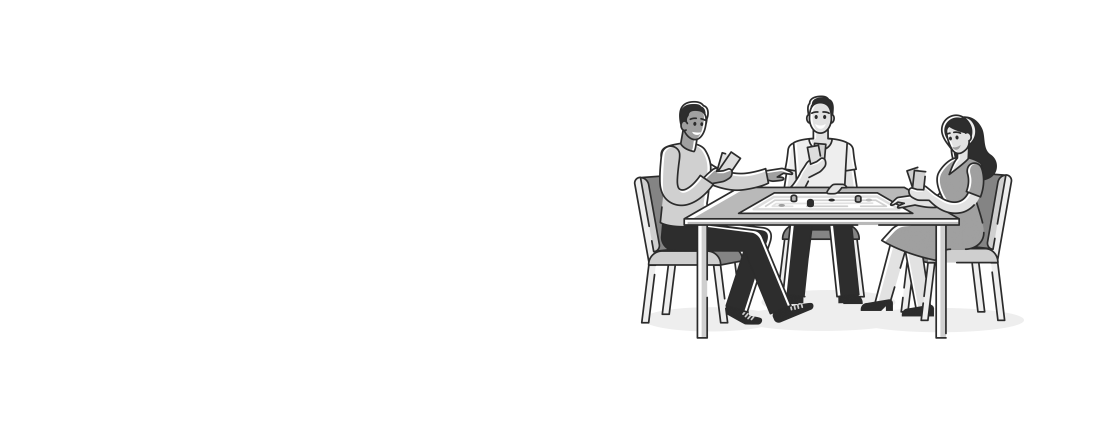
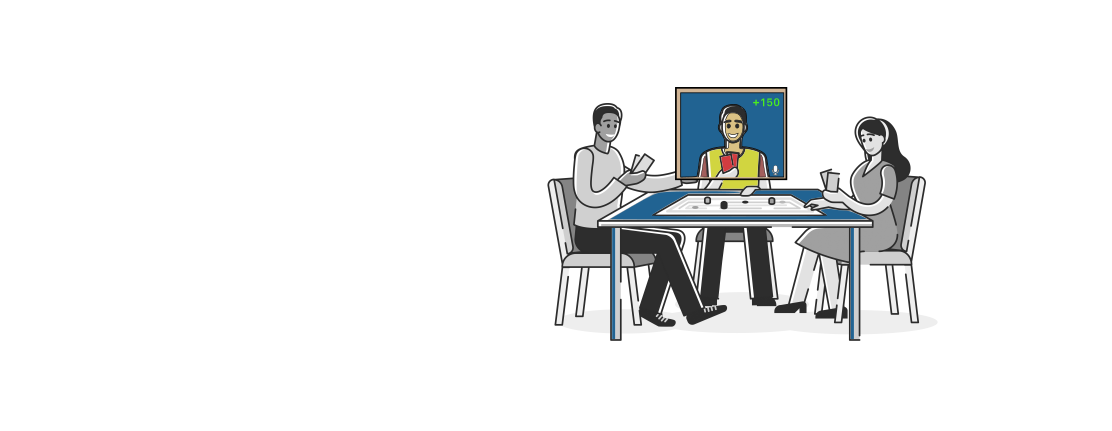
Changes to bg img etc, just css

Changed region(s): [[0.4892, 0.181, 0.9173, 0.7842]]

diff --git a/src/components/RTCPlayerControls.tsx b/src/components/RTCPlayerControls.tsx
@@ -15,15 +15,22 @@ const useStyles = makeStyles((theme: Theme) =>
       paddingTop: theme.spacing(1),
       paddingBottom: theme.spacing(1),
       width: '100%',
+      backgroundColor: 'Black',
     },
     btnContainer: {
       margin: theme.spacing(1),
+      backgroundColor: 'primary',
     },
     timer: {
       padding: theme.spacing(2),
       margin: theme.spacing(1),
       minWidth: 60,
       textAlign: 'center',
+      backgroundColor: 'rgba(179,49,49)',
+      color: 'white',
+    },
+    answerField: {
+      backgroundColor: 'white',
     },
   })
 );
@@ -84,13 +91,13 @@ const RTCPlayerControls: React.FC = () => {
   const disabled = isDisabled();
 
   return (
-    <Paper elevation={3} className={classes.container}>
+    <Paper elevation={3} className={classes.container} square>
       <Paper className={classes.timer}>
         <Typography>{timer}</Typography>
       </Paper>
-      <div>
+      <div className={classes.answerField}>
         <TextField
-          variant="outlined"
+          variant="filled"
           label="Vastaus"
           value={answer}
           onChange={({ target }) => setAnswer(target.value)}

diff --git a/src/components/HostOverlayItems.tsx b/src/components/HostOverlayItems.tsx
@@ -86,7 +86,7 @@ const HostOverlayItems: React.FC<HostOverlayItemsProps> = ({ host }) => {
         <div className={classes.spacer} />
         <div className={classes.flex}>
           <Paper className={classes.badge}>
-            <Typography>{host.displayName}</Typography>
+            <Typography variant="h5">{host.displayName}</Typography>
           </Paper>
           <div className={classes.spacer} />
           <IconButton size="small" onClick={toggleMuted}>

diff --git a/src/components/PlayerOverlayItems.tsx b/src/components/PlayerOverlayItems.tsx
@@ -244,7 +244,7 @@ const PlayerOverlayItems: React.FC<PlayerOverlayItemsProps> = ({ peer }) => {
         <div className={classes.spacer} />
         <div className={classes.flex}>
           <Paper className={classes.nameBadge}>
-            <Typography>{player.name}</Typography>
+            <Typography variant="h5">{player.name}</Typography>
           </Paper>
           <div className={classes.spacer} />
           {forHost && answer && (

diff --git a/src/components/RTCVideoFrame.tsx b/src/components/RTCVideoFrame.tsx
@@ -25,12 +25,12 @@ const useStyles = makeStyles((theme: Theme) =>
     },
     frame: {
       paddingTop: '75%',
-      backgroundColor: 'rgba(43,16,8)',
+      backgroundColor: 'rgba(126,126,126)',
       position: 'relative',
       color: 'white',
     },
     hasTurn: {
-      boxShadow: '0 0 4px 5px rgba(172, 190, 72)',
+      boxShadow: '0 0 4px 5px rgba(127, 129, 38)',
     },
     placeHolderText: {
       position: 'absolute',

diff --git a/src/App.tsx b/src/App.tsx
@@ -9,6 +9,7 @@ import {
   Typography,
   Button,
   Paper,
+  TableFooter,
 } from '@material-ui/core';
 import { makeStyles, createStyles, Theme } from '@material-ui/core/styles';
 
@@ -38,6 +39,7 @@ const useStyles = makeStyles((theme: Theme) =>
     footer: {
       padding: theme.spacing(2),
       textAlign: 'center',
+      backgroundColor: 'rgba(218,231,231)',
     },
     container: {
       width: '100%',
